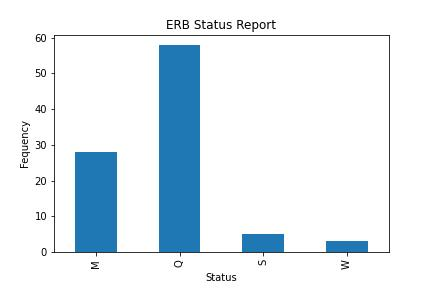
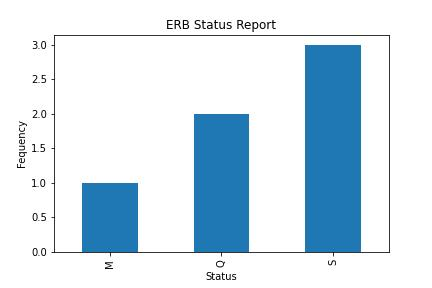
status report function

diff --git a/bot.py b/bot.py
@@ -939,14 +939,19 @@ def status_report(update: Update, context: CallbackContext):
         return
     try:
         for date_range in context.args:
-            [_from,_to] = date_range.split('.')
-            _from = format_date(_from)
-            _to = format_date(_to)
-            print("from",_from, "to", _to)
-            status_report = control_sheet[(control_sheet['problem_date']>=_from) & (control_sheet['problem_date']<=_to)].groupby('status')[['erb_no']].count().plot(kind='bar', title='ERB Status Report',xlabel='Status', ylabel='Fequency', legend=False).get_figure()
-            # plt.savefig("report.jpg")
+            [start,end] = date_range.split('.')
+            start = format_date(start)
+            end = format_date(end)
+            print("from",start, "to", end)
+            status_report = (control_sheet[
+                (control_sheet['problem_date']>=start) & (control_sheet['problem_date']<=end)]
+                .groupby('status')[['erb_no']]
+                .count()
+                .plot(kind='bar', title='ERB Status Report',xlabel='Status', ylabel='Fequency', legend=False).get_figure()
+            )
+            plt.savefig("report.jpg")
             # with open("report.jpg", 'rb') as p:
-            #     context.bot.send_photo(chat_id=update.effective_chat.id, photo=p, filename=f"Here is here is a report {_from} to {_to} 📃")
+            #     context.bot.send_photo(chat_id=update.effective_chat.id, photo=p, filename=f"Here is here is a report {start} to {end} 📃")
             print('status report is sent')
     except:
         print('An error occured while trying to generate status report')
